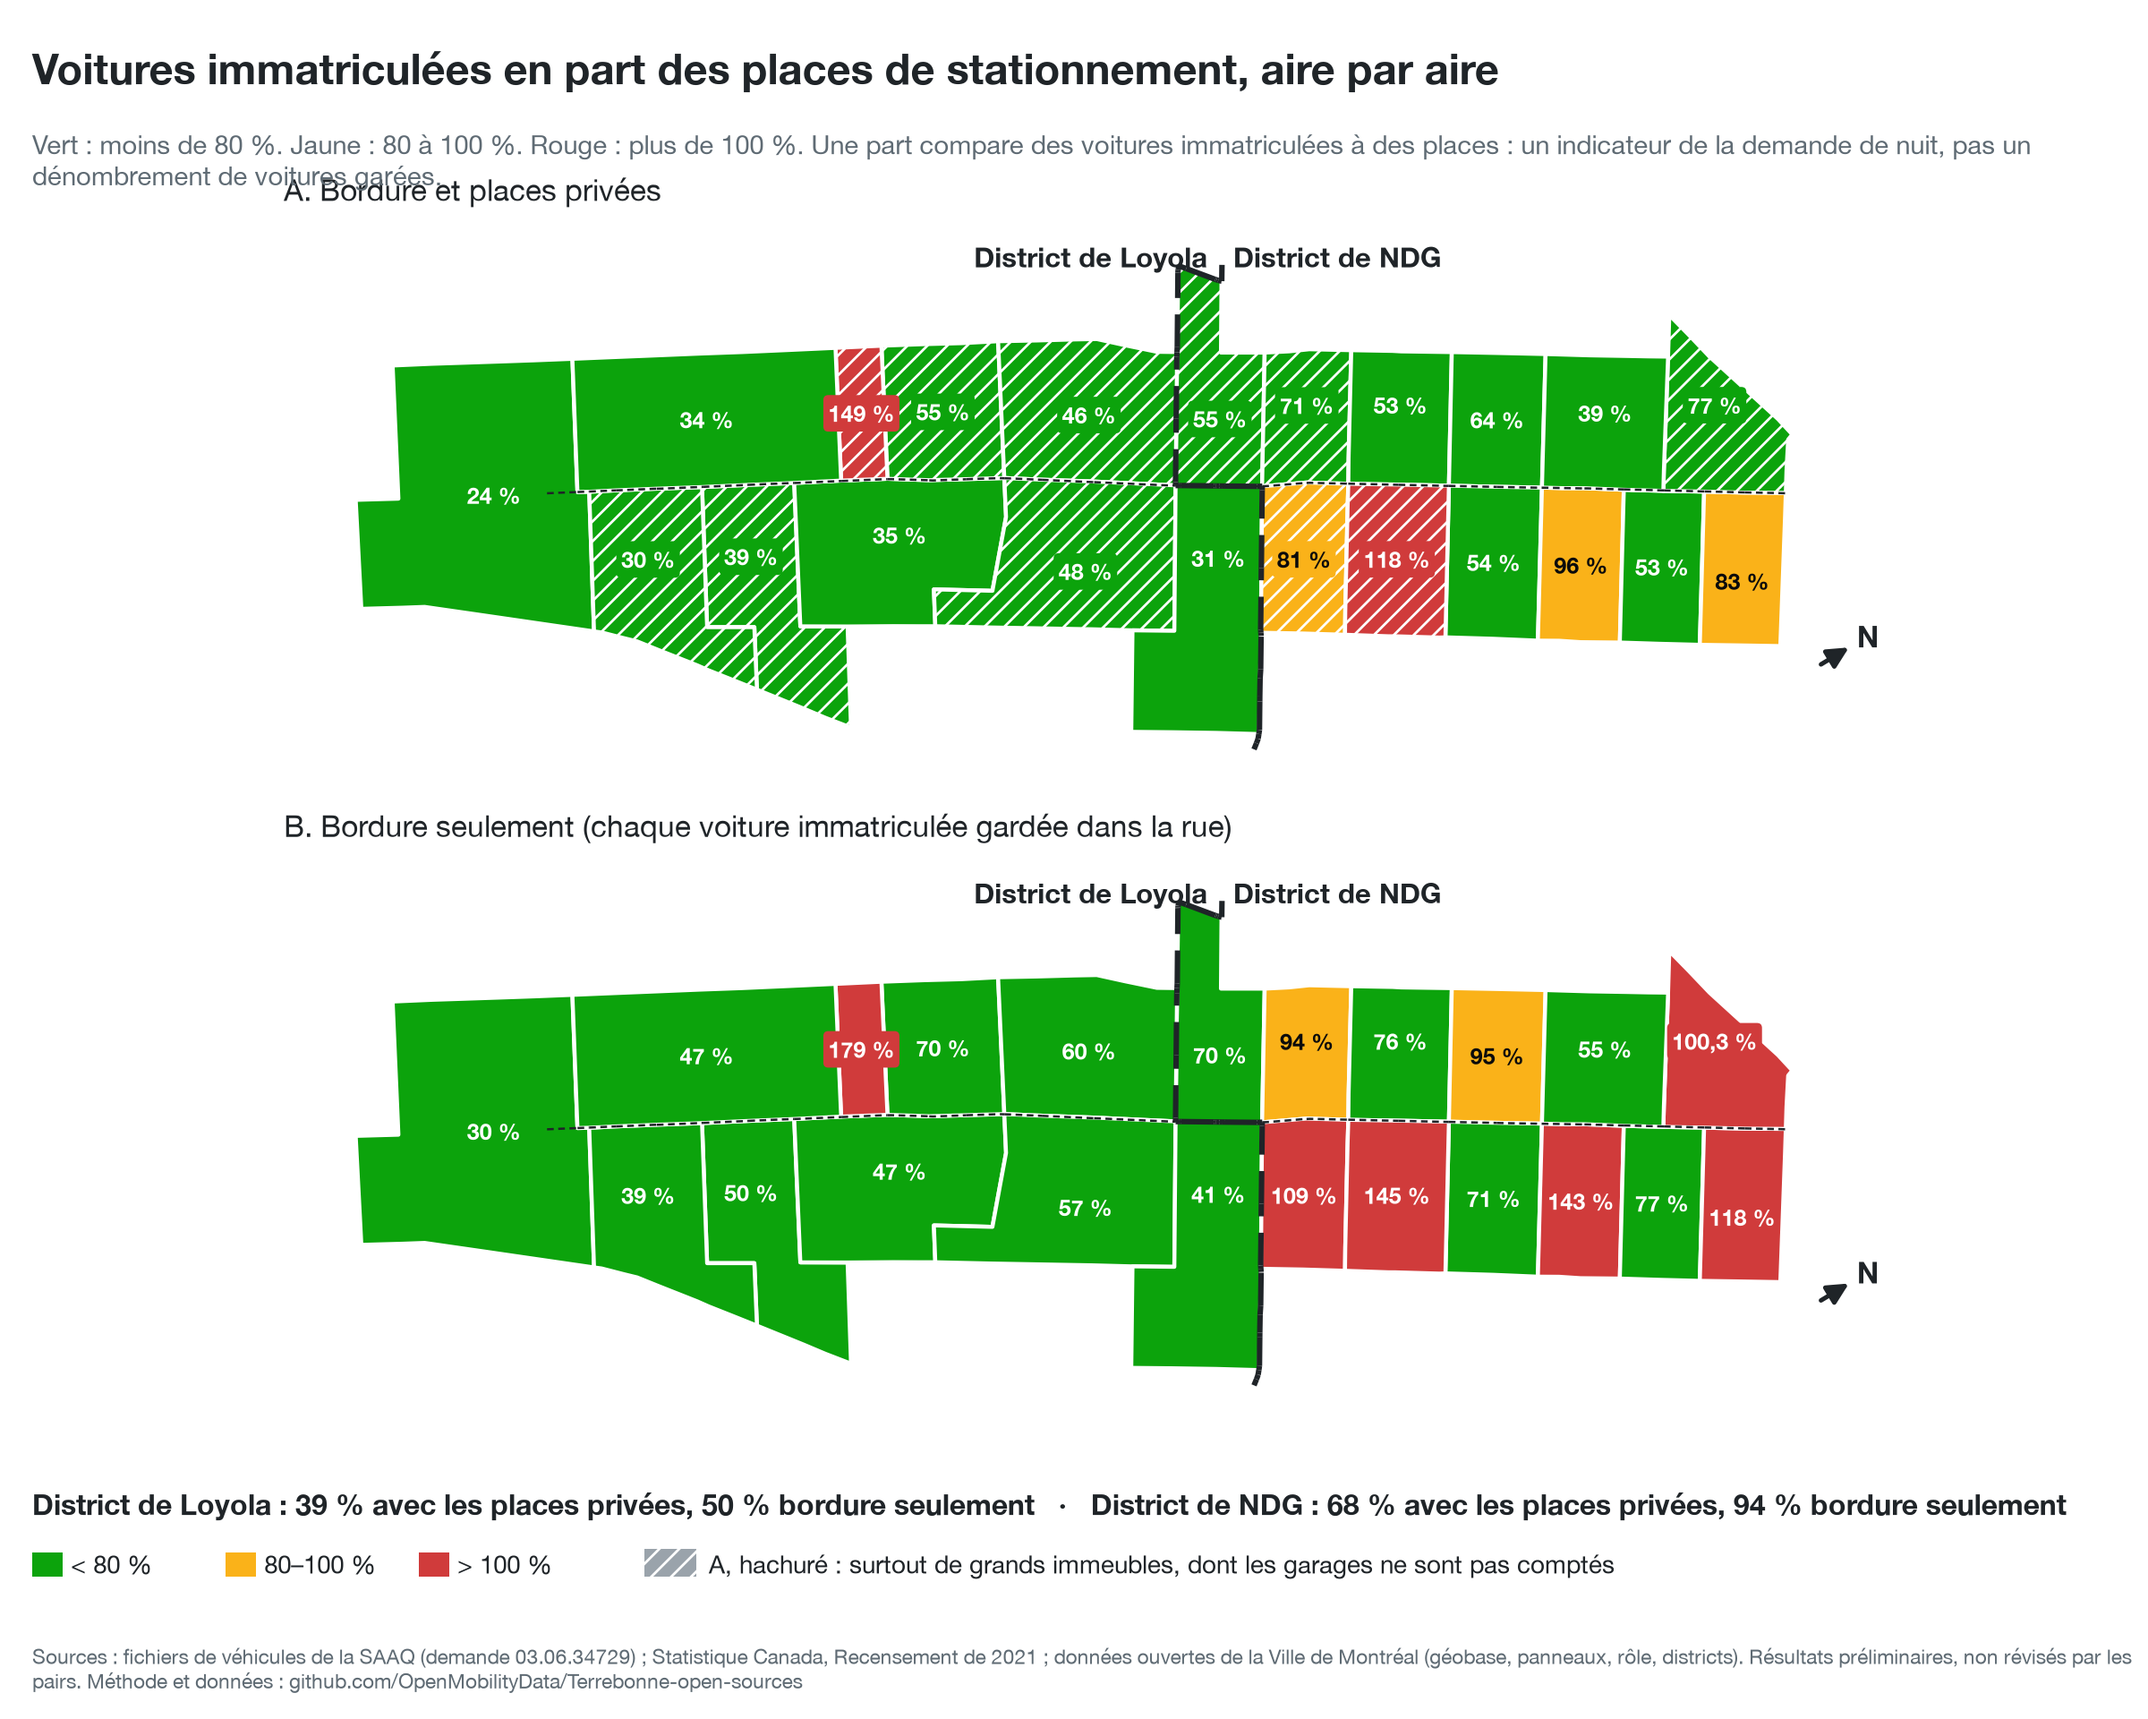
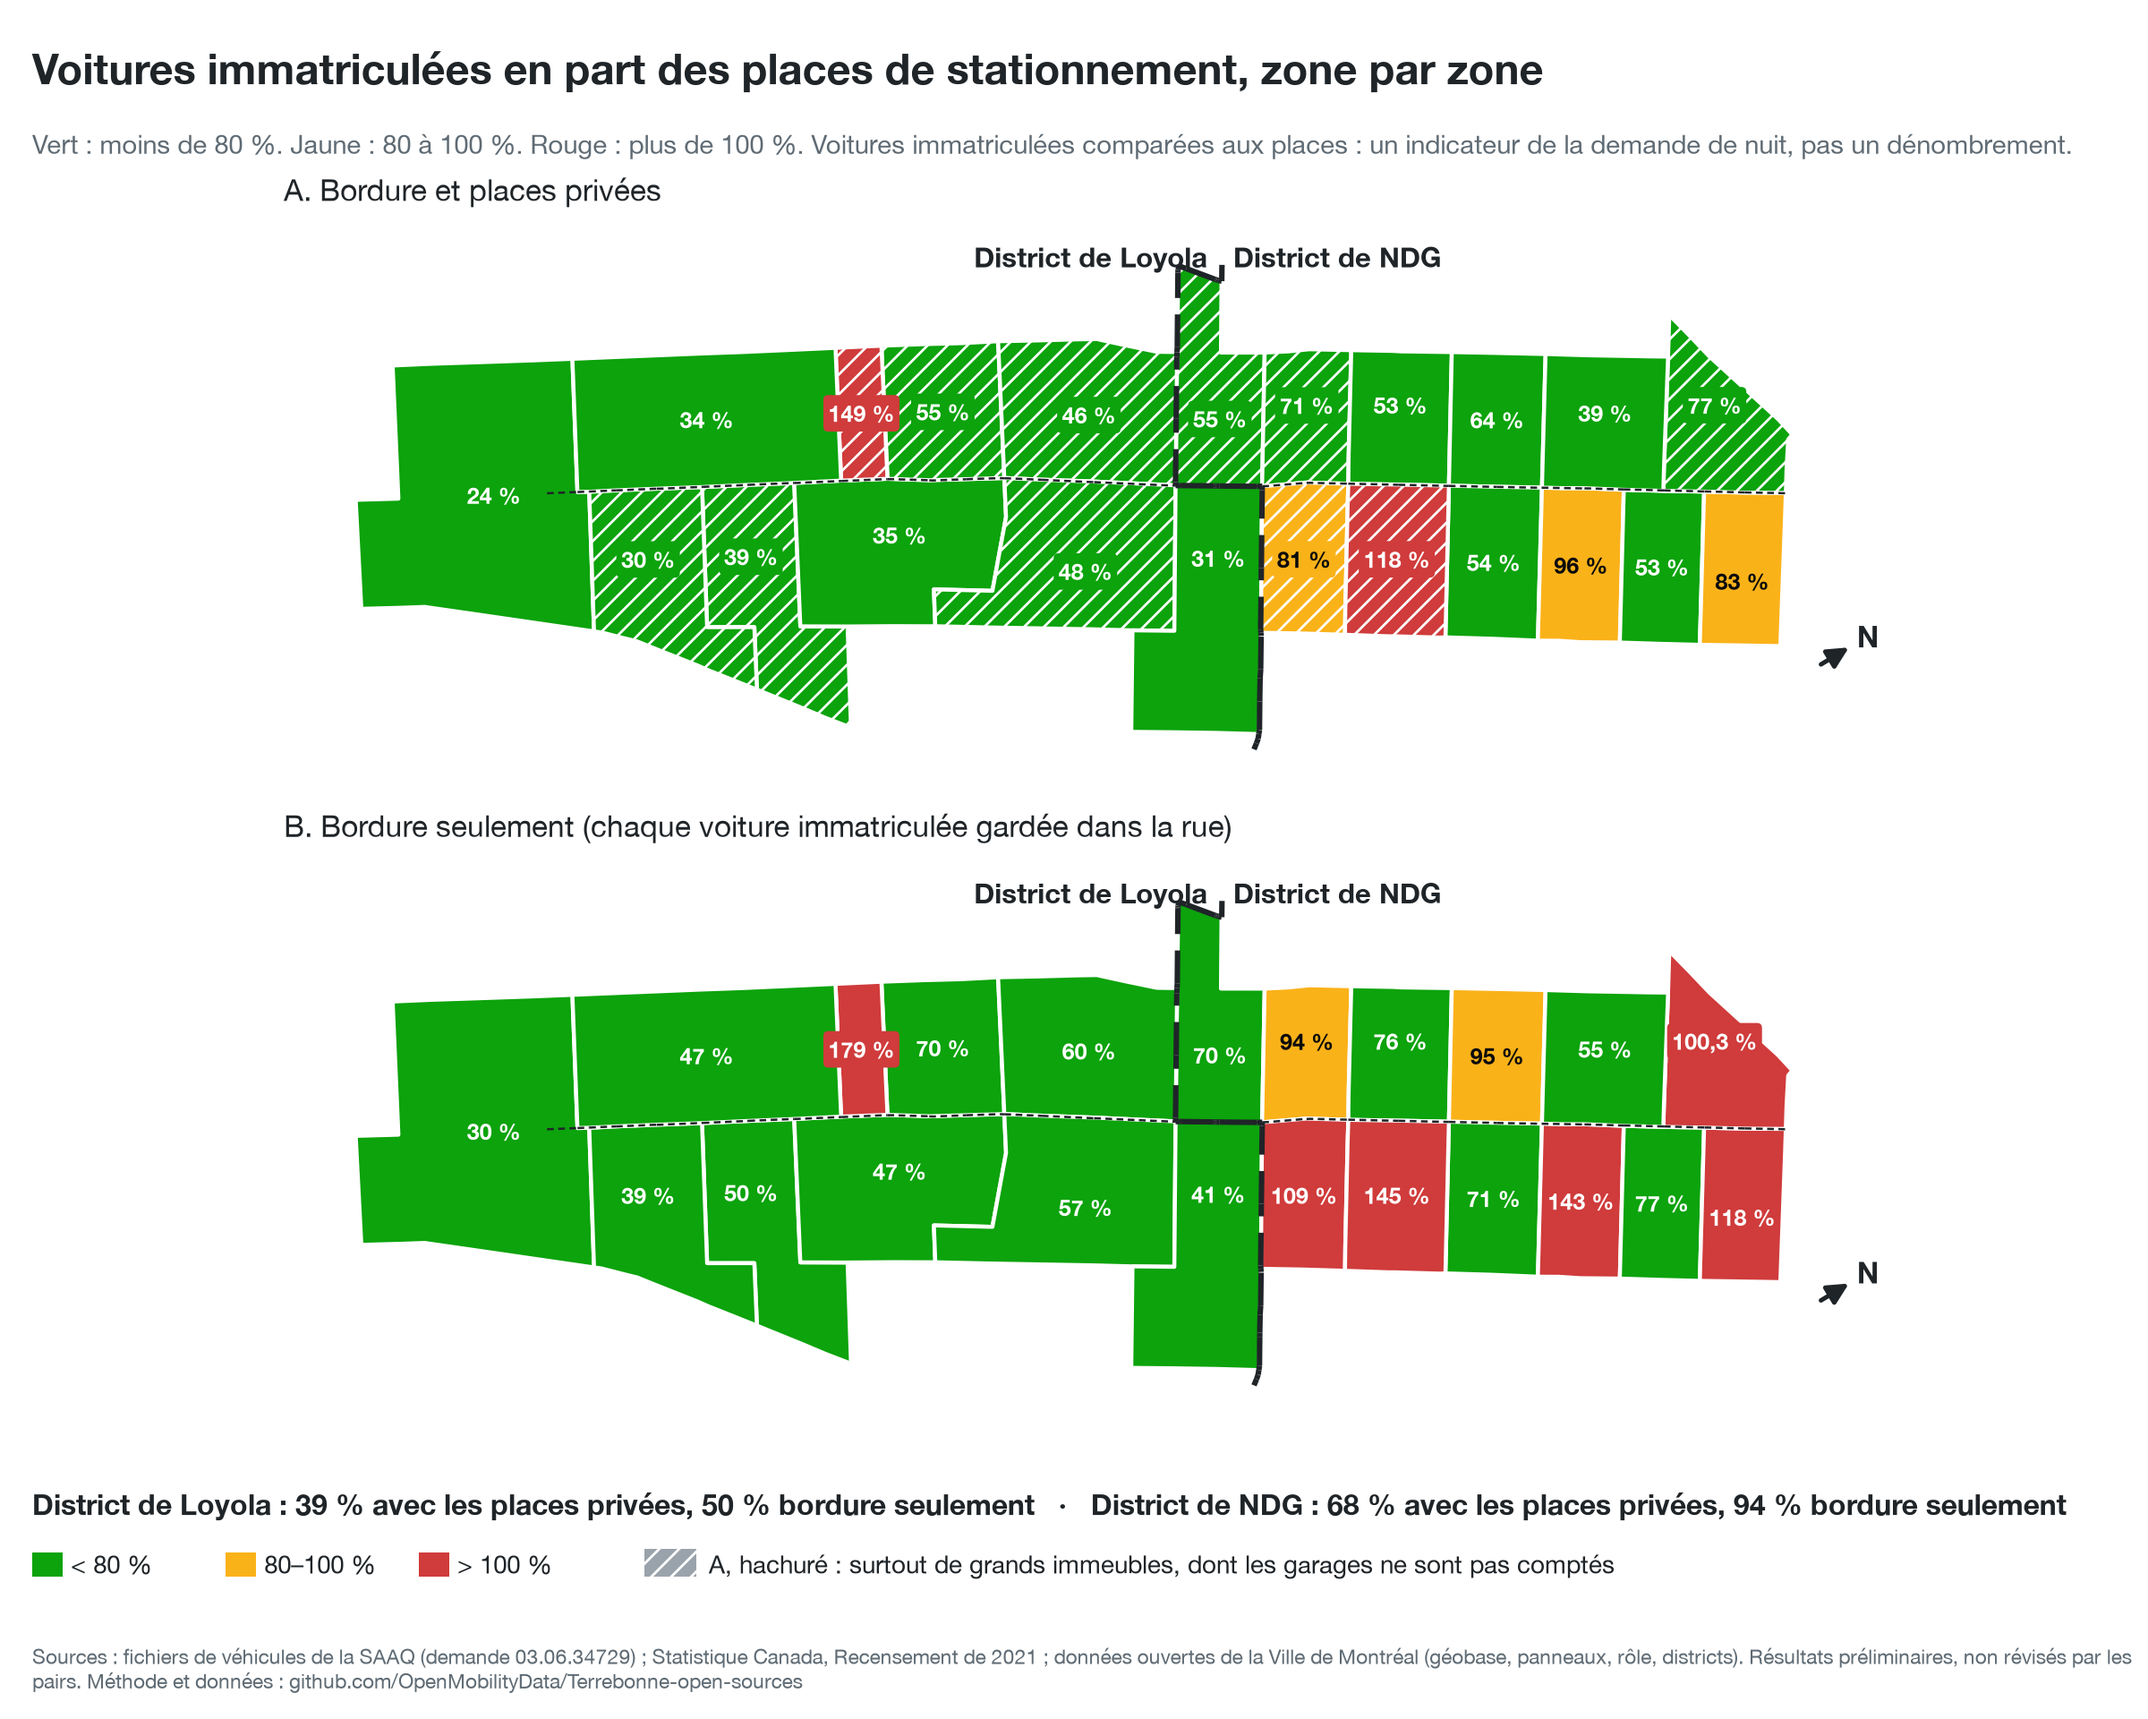
Social status map, French: subtitle shortened (no longer overlaps the panel title), « zone » as on the overflow map; English unchanged (Nov 13, 2026)
Claude-Session: https://claude.ai/code/session_01DdMD1XPFvxTGj3JzB8XZNZ

Changed region(s): [[0.375, 0.0312, 0.9688, 0.0938], [0.125, 0.0938, 0.1875, 0.125], [0.0312, 0.0938, 0.0938, 0.125]]

diff --git a/2026-terrebonne-corridor-vehicles-and-curb/derived/figures/social-maps/social_maps.py b/2026-terrebonne-corridor-vehicles-and-curb/derived/figures/social-maps/social_maps.py
@@ -40,10 +40,10 @@ T = {"en": dict(
      "fr": dict(
         t1="Le corridor de Terrebonne : voitures immatriculées, bordure et stationnement privé",
         s1="Aires colorées selon les automobiles immatriculées (modélisées d’après les données de la SAAQ, 2024). Orange : bordure légale, à 10 m des intersections. Vert : places privées rue de Terrebonne, vérifiées lot par lot.",
-        t2="Voitures immatriculées en part des places de stationnement, aire par aire",
-        s2="Vert : moins de 80 %. Jaune : 80 à 100 %. Rouge : plus de 100 %. Une part compare des voitures immatriculées à des places : un indicateur de la demande de nuit, pas un dénombrement de voitures garées.",
+        t2="Voitures immatriculées en part des places de stationnement, zone par zone",
+        s2="Vert : moins de 80 %. Jaune : 80 à 100 %. Rouge : plus de 100 %. Voitures immatriculées comparées aux places : un indicateur de la demande de nuit, pas un dénombrement.",
         a="A. Bordure et places privées", b="B. Bordure seulement (chaque voiture immatriculée gardée dans la rue)",
-        cb="automobiles modélisées par aire", curb="bordure légale", p1="1 place privée", p2="2", p3="3 ou plus", ug="garage souterrain (non compté)",
+        cb="automobiles modélisées par zone", curb="bordure légale", p1="1 place privée", p2="2", p3="3 ou plus", ug="garage souterrain (non compté)",
         conv="stationnement converti, aucune place", none="aucune place privée", lane="la piste", hatch="A, hachuré : surtout de grands immeubles, dont les garages ne sont pas comptés",
         dist="{d} : {a} % avec les places privées, {b} % bordure seulement", loy="District de Loyola", ndg="District de NDG",
         src="Sources : fichiers de véhicules de la SAAQ (demande 03.06.34729) ; Statistique Canada, Recensement de 2021 ; données ouvertes de la Ville de Montréal (géobase, panneaux, rôle, districts). "
